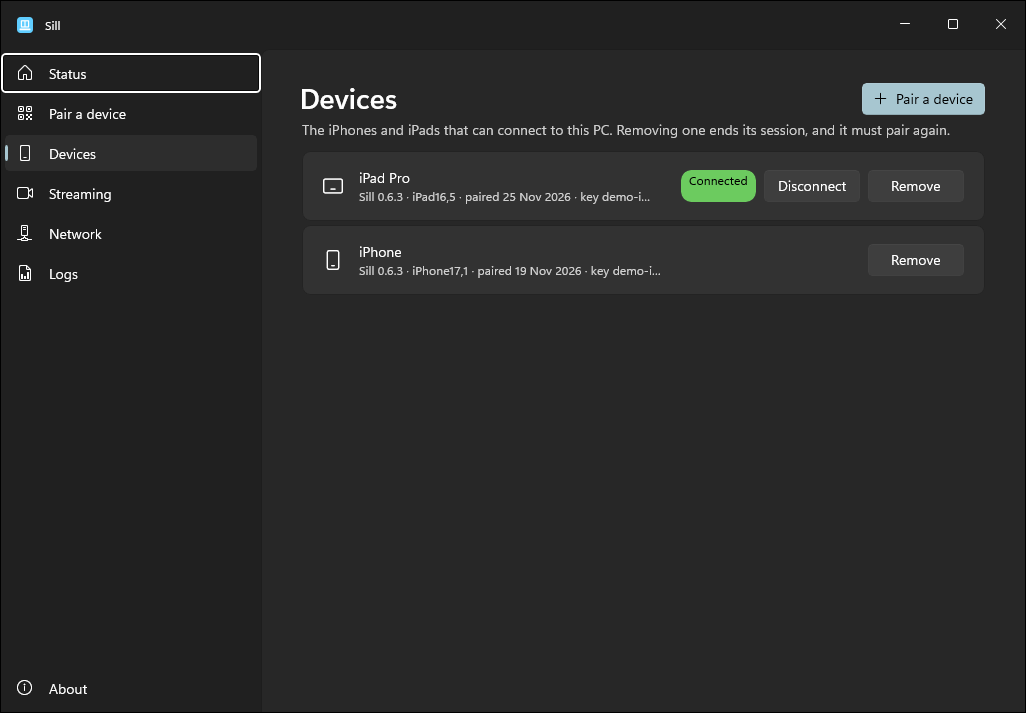
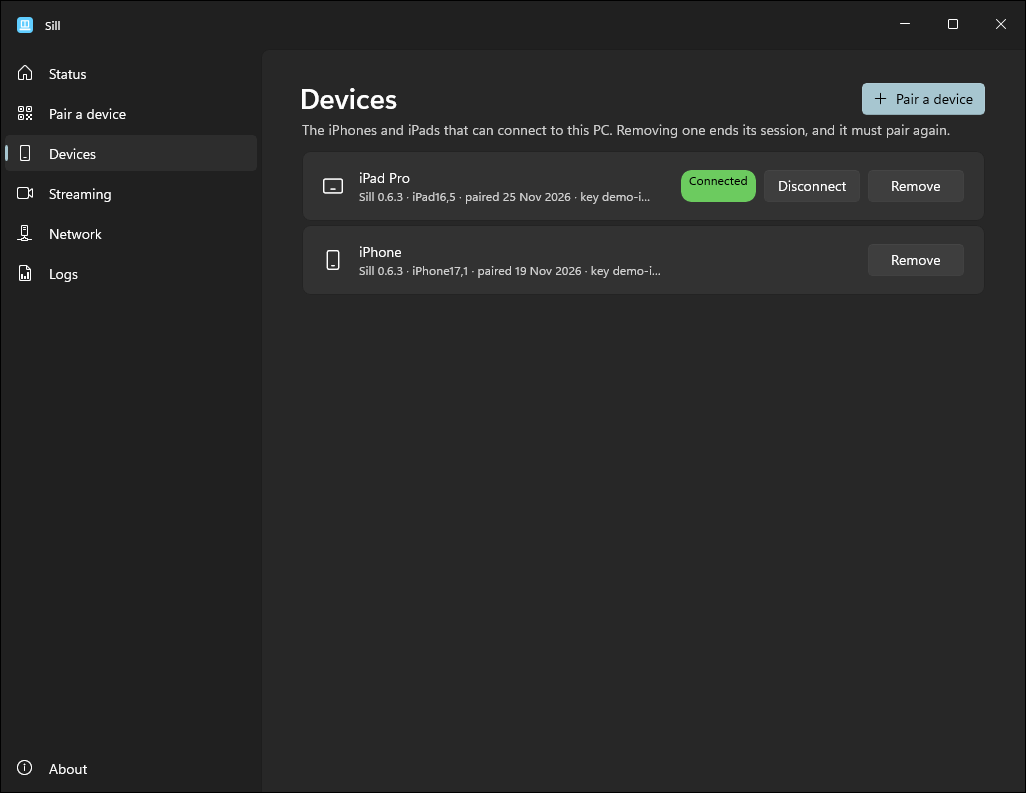
Host idles at 12 MB private: apps scan waits for a device; GUI review fixes
The Start-apps scan and its icons cost about 52 MB at launch. It now
starts with the first device and repeats only while one is connected;
sessions subscribe to app events before the snapshot so the first list
is not missed. Idle before a viewer: 29.9 MB working set, 12.3 MB
private (was 99 / 64). Measurements in TESTING.md.

App: no focus rectangle at launch (focus the selected page with pointer
state), window 1040x800 capped to the work area, Add a Mac (or Add
Computer) wording. Screenshots retaken.

Claude-Session: https://claude.ai/code/session_01Cuz3ypkQDvcFhwfXZpTHmg

diff --git a/windows/app/Sill/Pages/PairPage.xaml b/windows/app/Sill/Pages/PairPage.xaml
@@ -43,7 +43,7 @@
                     <StackPanel Grid.Column="1" VerticalAlignment="Center" Spacing="12">
                         <TextBlock Text="Scan this code with Sill on your iPhone or iPad" Style="{StaticResource SubtitleTextBlockStyle}" TextWrapping="Wrap" />
                         <TextBlock Style="{StaticResource BodyTextBlockStyle}" Foreground="{ThemeResource TextFillColorSecondaryBrush}" TextWrapping="Wrap"
-                                   Text="Or tap Add a Mac › Type address and code, and enter:" />
+                                   Text="Or tap Add a Mac (or Add Computer) › Type address and code, and enter:" />
                         <TextBlock x:Name="CodeText" FontFamily="{StaticResource MonoFont}" FontSize="32" CharacterSpacing="80" IsTextSelectionEnabled="True" />
                         <StackPanel Spacing="6" MaxWidth="320" HorizontalAlignment="Left">
                             <ProgressBar x:Name="ExpiresBar" Maximum="300" Width="320" />

diff --git a/windows/host/src/catalog.rs b/windows/host/src/catalog.rs
@@ -1,7 +1,9 @@
 //! The catalog (Windows): the Apps drawer and the window list, from one place so a window and its
 //! app share one icon.
 //!
-//! - Apps: Start's apps, scanned at launch and every 15 minutes. Icons are made one by one in the
+//! - Apps: Start's apps, scanned when the first device connects (not at launch: the shell and the
+//!   icons cost about 50 MB, and an idle host should stay small), then every 15 minutes while a
+//!   device is connected. Icons are made one by one in the
 //!   background (about 70 ms each on Intel Arc) and announced as each is ready. A launch is checked
 //!   against the list.
 //! - Windows: read every 2 s (upstream reads only while a device is connected; a read here is
@@ -78,9 +80,16 @@ impl Catalog {
             thumbs: Mutex::new(crate::thumbs::Thumbs::default()),
         });
         let m = me.clone();
-        let _ = std::thread::Builder::new().name("sill-apps".into()).spawn(move || loop {
-            m.refresh_apps();
-            std::thread::sleep(RESCAN);
+        let _ = std::thread::Builder::new().name("sill-apps".into()).spawn(move || {
+            let mut last: Option<std::time::Instant> = None;
+            loop {
+                let due = last.map_or(true, |t| t.elapsed() >= RESCAN);
+                if due && (m.sessions)() > 0 {
+                    m.refresh_apps();
+                    last = Some(std::time::Instant::now());
+                }
+                std::thread::sleep(Duration::from_millis(250));
+            }
         });
         let m = me.clone();
         let _ = std::thread::Builder::new().name("sill-windows".into()).spawn(move || {

diff --git a/windows/app/Sill/MainWindow.xaml.cs b/windows/app/Sill/MainWindow.xaml.cs
@@ -17,12 +17,26 @@ public sealed partial class MainWindow : Window
         var aw = Native.AppWindowOf(this);
         aw.SetIcon(System.IO.Path.Combine(AppContext.BaseDirectory, "Assets", "sill.ico"));
         aw.TitleBar.PreferredHeightOption = TitleBarHeightOption.Tall;
-        Native.Resize(this, 1040, 720);
+        // 1040 x 800, or less on a small screen (the pages scroll).
+        var work = DisplayArea.GetFromWindowId(aw.Id, DisplayAreaFallback.Primary).WorkArea;
+        var scale = Native.Scale(this);
+        Native.Resize(this, System.Math.Min(1040, work.Width * 0.9 / scale), System.Math.Min(800, work.Height * 0.9 / scale));
         Center(aw);
         Navigate("status");
+        // Start with focus on the selected page, without a focus rectangle: the rectangle shows
+        // only once Tab or the arrow keys are used.
+        Activated += FocusSelectedOnce;
+        Nav.Loaded += (_, _) => DispatcherQueue.TryEnqueue(Microsoft.UI.Dispatching.DispatcherQueuePriority.Low, () => (Nav.SelectedItem as Control)?.Focus(FocusState.Pointer));
         StatusService.Shared.Updated += OnStatus;
         Closed += (_, _) => StatusService.Shared.Updated -= OnStatus;
         OnStatus();
+    }
+
+    void FocusSelectedOnce(object sender, WindowActivatedEventArgs e)
+    {
+        if (e.WindowActivationState == WindowActivationState.Deactivated) return;
+        Activated -= FocusSelectedOnce;
+        DispatcherQueue.TryEnqueue(() => (Nav.SelectedItem as Control)?.Focus(FocusState.Pointer));
     }
 
     void OnStatus()

diff --git a/windows/crates/sill-net/src/session.rs b/windows/crates/sill-net/src/session.rs
@@ -160,6 +160,9 @@ pub async fn run<S: AsyncRead + AsyncWrite + Send + 'static>(
     active_rx.borrow_and_update();
     let mut app_events = match host.apps.get() {
         Some(src) => {
+            // Subscribe before the snapshot: the first scan may finish in between (it starts
+            // with the first device), and a list sent twice does no harm.
+            let rx = src.subscribe();
             if src.locked() {
                 debug!("{name} at {peer}: no apps or icons (the computer is locked).");
             } else {
@@ -170,7 +173,7 @@ pub async fn run<S: AsyncRead + AsyncWrite + Send + 'static>(
                 out.send(message(Kind::AppList, encode(&*list)));
                 debug!("{name} at {peer}: {} apps, {} icons.", list.len(), icons.len());
             }
-            Some(src.subscribe())
+            Some(rx)
         }
         None => None,
     };

diff --git a/windows/TESTING.md b/windows/TESTING.md
@@ -168,6 +168,30 @@ Idle footprint, host running and no client:
   Direct3D and Media Foundation stay loaded after the pipeline is torn down.
 - 10 min: not taken yet (the phone reconnected during the attempt).
 
+Idle footprint again, Phase 3 (apps drawer, window list) and the tray (2026-11-28, release build,
+`--no-tray` unless stated, scratch data dir, 40 s after start, PrivateUsage):
+
+| Host | Working set | Private |
+|---|---|---|
+| Phase 3 + tray, before any viewer | 99 MB | 64 MB |
+| same, `--no-tray` | 100 MB | 64 MB |
+| `--test-clip` (no catalog, no desktop thread) | 20 MB | 7 MB |
+| apps scan off | 30 MB | 12 MB |
+| window list off | 97 MB | 62 MB |
+| desktop thread off (no MFStartup) | 99 MB | 63 MB |
+
+The tray costs nothing measurable. The Start-apps scan and its 236 icons (shell items, WIC) cost
+about 52 MB. Fix: the scan starts with the first device and repeats every 15 min only while one is
+connected; the session subscribes to app events before its snapshot, so the list that the first
+scan sends 1.2 s after the connect is not missed (loopback client: "0 apps" at connect, then
+"Apps: 236 in Start").
+
+After the fix (loopback sillclient, 25 s desktop stream):
+- Before any viewer: 29.9 MB working set, 12.3 MB private. **Meets < 40 MB.**
+- Right after the viewer left: 278 MB / 294 MB; 60 s later 135 MB / 88 MB. The Intel driver,
+  Direct3D, Media Foundation and the shell/icon state stay loaded. Still the Phase 5 item above
+  (a separate capture process, or unloading after a long idle).
+
 Against the MVP targets (WINDOWS_PORT.md §8):
 
 | Target | Result |
@@ -176,7 +200,7 @@ Against the MVP targets (WINDOWS_PORT.md §8):
 | RTT ≤ 15 ms | **Met:** 5–7 ms median. |
 | 60 fps at 1080p, ≤ 15 Mbps | **Missed.** The Intel MF encoder takes one frame in flight, at about 30 ms at 1920×1200: 30–35 fps at most (R3). |
 | Host CPU ≤ 10 % of one core, static desktop | **Met:** 0 % (WGC sends no frames when nothing changes). |
-| Idle ≈ 0 % CPU, < 40 MB | **Met** before any viewer (17.8 MB). **Missed** after one (63 MB): a Phase 5 item (unload the pipeline's DLLs, or a separate capture process). |
+| Idle ≈ 0 % CPU, < 40 MB | **Met** before any viewer (17.8 MB; with Phase 3 and the tray, 29.9 MB after the lazy apps scan). **Missed** after one (63 MB; 88 MB private with Phase 3): a Phase 5 item (unload the pipeline's DLLs, or a separate capture process). |
 
 Next for latency: send the frame to the encoder at once (capture → submit is about 7 ms), a
 BGRA input or a shader conversion to free the video processor (36–40 %), and Phase 5's direct
